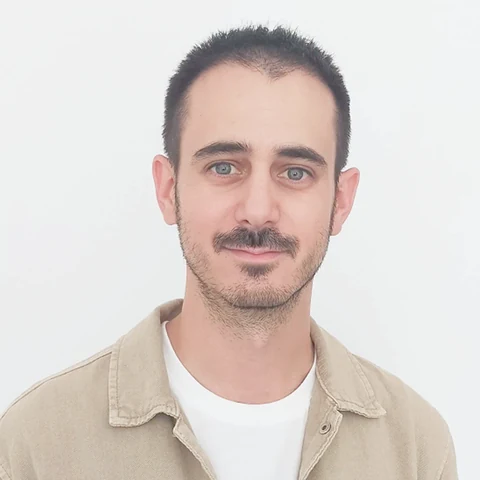
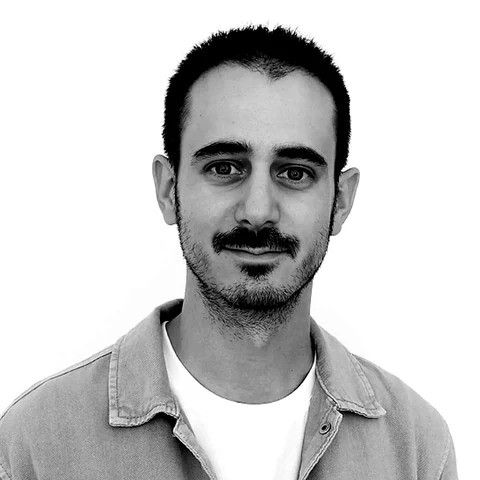
Blog: «Colaboración de…» en las cards, ficha «Escrito por» en todos los artículos y foto de Fran en blanco y negro
- Las cards del listado y de «Sigue leyendo» avisan de las colaboraciones («Colaboración de Fran Cases»);
  la fecha, la lectura y la autoría pasan a leerse como descripción del enlace
- Los artículos sin autor llevan la ficha «Escrito por Arnau Larripa» (bio, foto y enlaces a Portfolio, Sobre mí y LinkedIn)
- «Autor» en la ficha del artículo solo en las colaboraciones
- La foto de Fran vuelve a ser en blanco y negro con contraste alto, recortada en cuadrado y a partir de la original

Claude-Session: https://claude.ai/code/session_01JS6xC9KpG6uFZtYrVtJqwu

diff --git a/tests/blog.test.js b/tests/blog.test.js
@@ -5,7 +5,7 @@ import { hoyMadrid, estaPublicado, formatearFecha } from '../lib/blog/fechas.js'
 import { filtrosDe } from '../lib/blog/etiquetas.js';
 import { ordenar, filtrar, paginar, calcularVista, leerEstado, escribirEstado, textoContador } from '../lib/blog/listado.js';
 import { seguirLeyendo } from '../lib/blog/relacionados.js';
-import { leerAutor } from '../lib/blog/autor.js';
+import { leerAutor, AUTOR_POR_DEFECTO } from '../lib/blog/autor.js';
 import { leerMarcadores, elegirPortada, procesarCuerpo } from '../lib/blog/imagenes.js';
 
 const art = (slug, fecha, tags) => ({ slug, fecha, tags });
@@ -146,4 +146,15 @@ test('autoría: sin autor no hay ficha; los datos pendientes no llegan a la web'
 test('autoría: solo se aceptan enlaces http(s)', () => {
   assert.equal(leerAutor({ author: 'A', authorLinkedin: 'javascript:alert(1)' }).linkedin, null);
   assert.equal(leerAutor({ author: 'A', authorPortfolio: 'http://ejemplo.com' }).portfolio, 'http://ejemplo.com');
+});
+
+test('autoría: los enlaces salen en una lista uniforme y los artículos sin autor tienen a Arnau por defecto', () => {
+  const a = leerAutor({ author: 'Fran Cases', authorLinkedin: 'https://www.linkedin.com/in/x/', authorPortfolio: '[PENDIENTE: URL]' });
+  assert.deepEqual(a.enlaces.map((e) => e.texto), ['LinkedIn']);
+  assert.equal(a.enlaces[0].externo, true);
+  assert.equal(AUTOR_POR_DEFECTO.nombre, 'Arnau Larripa');
+  assert.deepEqual(AUTOR_POR_DEFECTO.enlaces.map((e) => e.texto), ['Portfolio', 'Sobre mí', 'LinkedIn']);
+  assert.ok(AUTOR_POR_DEFECTO.enlaces.some((e) => e.href === '/' && e.externo === false));
+  assert.ok(AUTOR_POR_DEFECTO.enlaces.some((e) => e.href === '/sobre-mi/' && e.externo === false));
+  assert.ok(AUTOR_POR_DEFECTO.enlaces.filter((e) => e.externo).every((e) => /^https:\/\//.test(e.href)));
 });

diff --git a/src/data/blog.js b/src/data/blog.js
@@ -10,7 +10,7 @@ import { hoyMadrid, estaPublicado, formatearFecha } from '../../lib/blog/fechas.
 import { filtrosDe } from '../../lib/blog/etiquetas.js';
 import { procesarCuerpo, leerMarcadores, elegirPortada } from '../../lib/blog/imagenes.js';
 import { UMBRAL_CONTROLES } from '../../lib/blog/config.js';
-import { leerAutor } from '../../lib/blog/autor.js';
+import { leerAutor, AUTOR_POR_DEFECTO } from '../../lib/blog/autor.js';
 
 export const hoy = hoyMadrid(new Date(), process.env.WIP_HOY || undefined);
 const conPruebas = process.env.WIP_PRUEBAS === '1';
@@ -51,7 +51,8 @@ async function prepararArticulo(entrada) {
   const cuerpo = procesarCuerpo(html, (m) => etiquetas.get(m.archivo + m.alt));
   const portada = cuerpo.portada ? { ...cuerpo.portada, meta: imagenDe(cuerpo.portada.archivo) } : null;
   const secciones = (entrada.rendered?.metadata?.headings ?? []).filter((h) => h.depth === 2 && h.slug !== 'referencias');
-  const autor = leerAutor(d);
+  const autorExterno = leerAutor(d);
+  const autor = autorExterno ?? AUTOR_POR_DEFECTO;
   return {
     slug: d.slug,
     titulo: d.title,
@@ -63,7 +64,9 @@ async function prepararArticulo(entrada) {
     tags: d.tags,
     filtros: filtrosDe(d.tags),
     portada,
-    autor: autor && { ...autor, fotoMeta: autor.foto ? imagenDe(autor.foto) : null },
+    // Colaboración = artículo firmado por otra persona (se avisa en el listado y en la ficha)
+    colaboracion: Boolean(autorExterno),
+    autor: { ...autor, fotoMeta: autor.foto ? imagenDe(autor.foto) : null },
     html: cuerpo.html,
     secciones: secciones.map((h, i) => ({ n: i + 1, id: h.slug, texto: h.text })),
     // Imagen para compartir en redes (1200×630, en public/og/). Los artículos sin una propia usan la general del sitio.

diff --git a/lib/blog/autor.js b/lib/blog/autor.js
@@ -13,12 +13,35 @@ const enlace = (v) => {
 export function leerAutor(d) {
   const nombre = texto(d.author);
   if (!nombre) return null;
+  const linkedin = enlace(d.authorLinkedin);
+  const portfolio = enlace(d.authorPortfolio);
   return {
     nombre,
     rol: texto(d.authorRole),
     bio: texto(d.authorBio),
-    linkedin: enlace(d.authorLinkedin),
-    portfolio: enlace(d.authorPortfolio),
+    linkedin,
+    portfolio,
     foto: texto(d.authorPhoto), // nombre de archivo en content/imagenes/
+    enlaces: [
+      linkedin && { texto: 'LinkedIn', href: linkedin, externo: true },
+      portfolio && { texto: 'Portfolio', href: portfolio, externo: true },
+    ].filter(Boolean),
   };
 }
+
+// Quien firma los artículos que no tienen `author` en el frontmatter: Arnau.
+// Bio escrita por Arnau (primera persona). La foto es su retrato de «Sobre mí». «Portfolio» lleva a la home: desde el blog (WIP)
+// puede pasar inadvertido que forma parte del portfolio.
+export const AUTOR_POR_DEFECTO = {
+  nombre: 'Arnau Larripa',
+  rol: 'Product Designer en Barcelona',
+  bio: 'Desde 2022 diseño productos digitales en Aktios, una consultora tecnológica de Barcelona. Me interesa especialmente el diseño aplicado al deporte, la salud y la accesibilidad, y cómo usar la IA para diseñar mejor.',
+  linkedin: null,
+  portfolio: null,
+  foto: 'arnau-larripa.webp',
+  enlaces: [
+    { texto: 'Portfolio', href: '/', externo: false },
+    { texto: 'Sobre mí', href: '/sobre-mi/', externo: false },
+    { texto: 'LinkedIn', href: 'https://www.linkedin.com/in/arnaularripa/', externo: true },
+  ],
+};

diff --git a/src/styles/wip.css b/src/styles/wip.css
@@ -177,7 +177,7 @@
 @media (min-width:640px){.bl-cuerpo h2{font-size:36px;line-height:1.1}}
 @media (min-width:1024px){.bl-cuerpo h2{font-size:40px}}
 
-/* Ficha de autoría (colaboraciones): tras el cuerpo, separada por una línea gruesa. La foto va en color y cuadrada (archivo ya recortado). */
+/* Ficha de autoría (colaboraciones): tras el cuerpo, separada por una línea gruesa. La foto va en blanco y negro con contraste alto y cuadrada (archivo ya procesado). */
 .bl-autor{margin-top:var(--space-6);border-top:2px solid var(--line-strong);padding-top:var(--space-3);display:flex;flex-direction:column;gap:var(--space-3)}
 .bl-autor__foto{display:block;width:96px;height:96px;object-fit:cover;border-radius:var(--radius);background:var(--bg);outline:1px solid var(--line);outline-offset:-1px} /* el fondo de la foto es blanco: el filo gris la separa de la página */
 .bl-autor__datos{display:flex;flex-direction:column;gap:0;min-width:0}

diff --git a/LEEME.md b/LEEME.md
@@ -60,7 +60,7 @@ Con las variables `WIP_HOY=AAAA-MM-DD` (ver el blog como si hoy fuera ese día) 
 
 ### Colaboraciones (artículos de otra persona)
 
-Campos opcionales del frontmatter: `author`, `authorRole`, `authorBio`, `authorLinkedin`, `authorPortfolio` y `authorPhoto` (nombre de un archivo de `content/imagenes/`). Si hay `author`, el artículo muestra «Autor» en la ficha y una ficha «Escrito por» tras el texto, con enlaces a LinkedIn y portfolio solo si existen. Todo lo que aún esté por confirmar se puede dejar como `[PENDIENTE: …]`: no llega a la web. Las URL deben ser completas (si no, la construcción falla). La foto va en color, recortada en cuadrado (hombros y cabeza) y con alt vacío, porque el nombre está al lado.
+Campos opcionales del frontmatter: `author`, `authorRole`, `authorBio`, `authorLinkedin`, `authorPortfolio` y `authorPhoto` (nombre de un archivo de `content/imagenes/`). Si hay `author`, el artículo muestra «Autor» en la ficha y una ficha «Escrito por» tras el texto, con enlaces a LinkedIn y portfolio solo si existen. Todo lo que aún esté por confirmar se puede dejar como `[PENDIENTE: …]`: no llega a la web. Las URL deben ser completas (si no, la construcción falla). La foto va en blanco y negro con contraste alto, recortada en cuadrado (cabeza y hombros; se procesa antes de guardarla) y con alt vacío, porque el nombre está al lado. Los artículos sin `author` llevan la ficha de Arnau por defecto (`AUTOR_POR_DEFECTO` en `lib/blog/autor.js`).
 
 ### Listado y artículo
 
